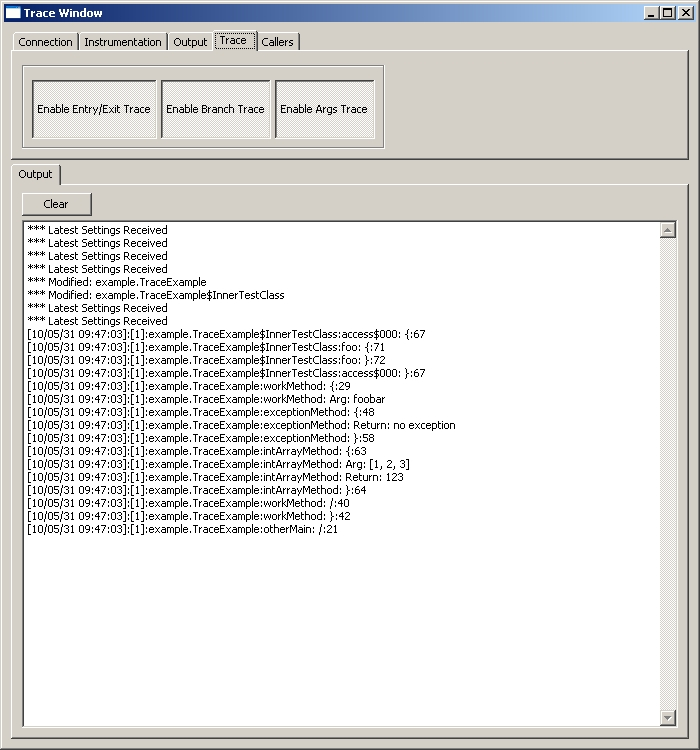
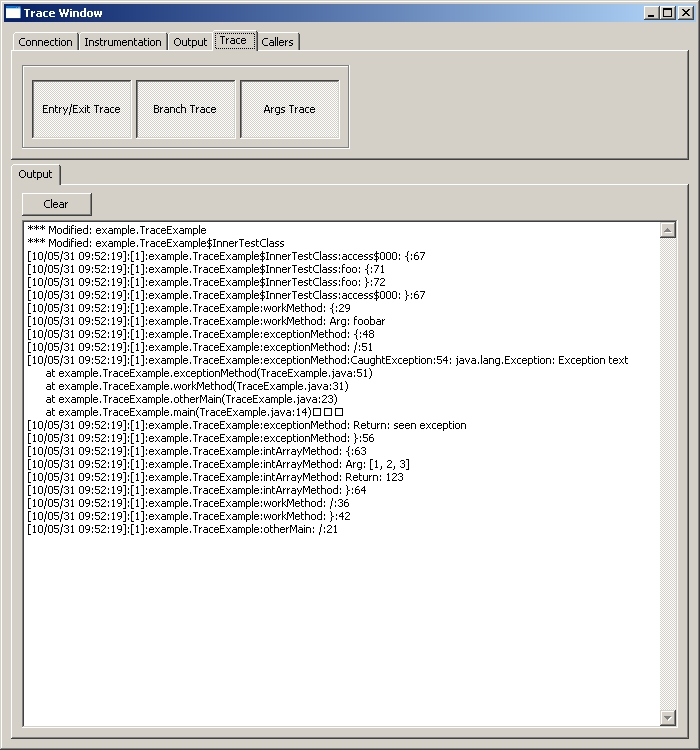
Update gui strings and update screenshot

diff --git a/org.intrace/src/org/intrace/client/gui/ClientStrings.java b/org.intrace/src/org/intrace/client/gui/ClientStrings.java
@@ -3,32 +3,22 @@ package org.intrace.client.gui;
 public class ClientStrings
 {
   public static final String ENABLE_INSTR = "Instrument Classes";
-  public static final String DISABLE_INSTR = "Disable Instrumentation";
   public static final String SET_CLASSREGEX = "Set Class Regex...";
   public static final String ENABLE_ALLOWJARS = "Instrument JARs";
-  public static final String DISABLE_ALLOWJARS = "Disable JAR Instrumentation";
   public static final String ENABLE_SAVECLASSES = "Save Instru'd Classes";
-  public static final String DISABLE_SAVECLASSES = "Don't Save Classes";
   public static final String ENABLE_VERBOSEMODE = "Verbose Mode";
-  public static final String DISABLE_VERBOSEMODE = "Disable Verbose Mode";
   public static final String LIST_MODIFIED_CLASSES = "List Instru'd Classes";
 
-  public static final String ENABLE_EE_TRACE = "Enable Entry/Exit Trace";
-  public static final String DISABLE_EE_TRACE = "Disable Entry/Exit Trace";
-  public static final String ENABLE_BRANCH_TRACE = "Enable Branch Trace";
-  public static final String DISABLE_BRANCH_TRACE = "Disable Branch Trace";
-  public static final String ENABLE_ARGS_TRACE = "Enable Args Trace";
-  public static final String DISABLE_ARGS_TRACE = "Disable Args Trace";
+  public static final String ENABLE_EE_TRACE = "Entry/Exit Trace";
+  public static final String ENABLE_BRANCH_TRACE = "Branch Trace";
+  public static final String ENABLE_ARGS_TRACE = "Args Trace";
 
   public static final String BEGIN_CAPTURE_CALLERS = "New Callers Capture...";
   public static final String END_CAPTURE_CALLERS = "End Callers Capture";
 
   public static final String ENABLE_STDOUT_OUTPUT = "StdOut Output";
-  public static final String DISABLE_STDOUT_OUTPUT = "Disable StdOut Output";
   public static final String ENABLE_FILE_OUTPUT = "File Output";
-  public static final String DISABLE_FILE_OUTPUT = "Disable File Output";
   public static final String ENABLE_NETWORK_OUTPUT = "Network Output";
-  public static final String DISABLE_NETWORK_OUTPUT = "Disable Network Output";
 
   public static final String CONNECT = "Connect";
   public static final String CONNECTING = "Connect...";
